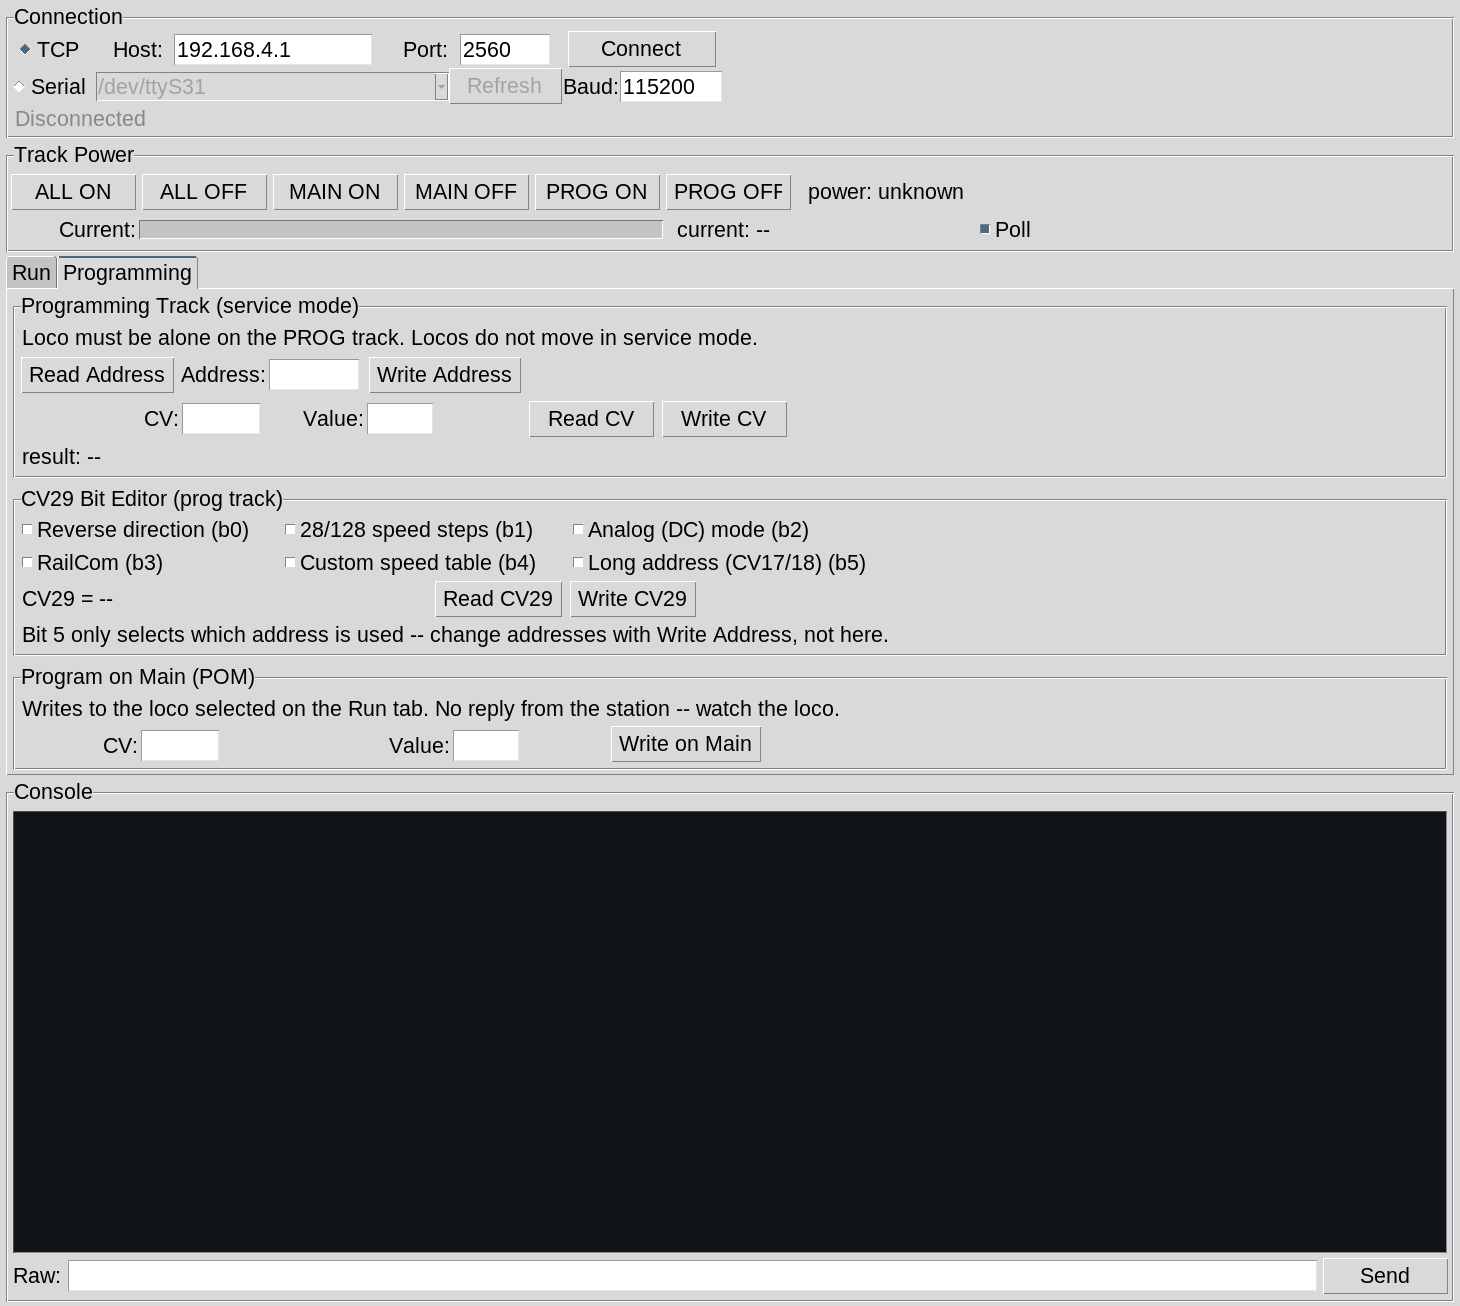
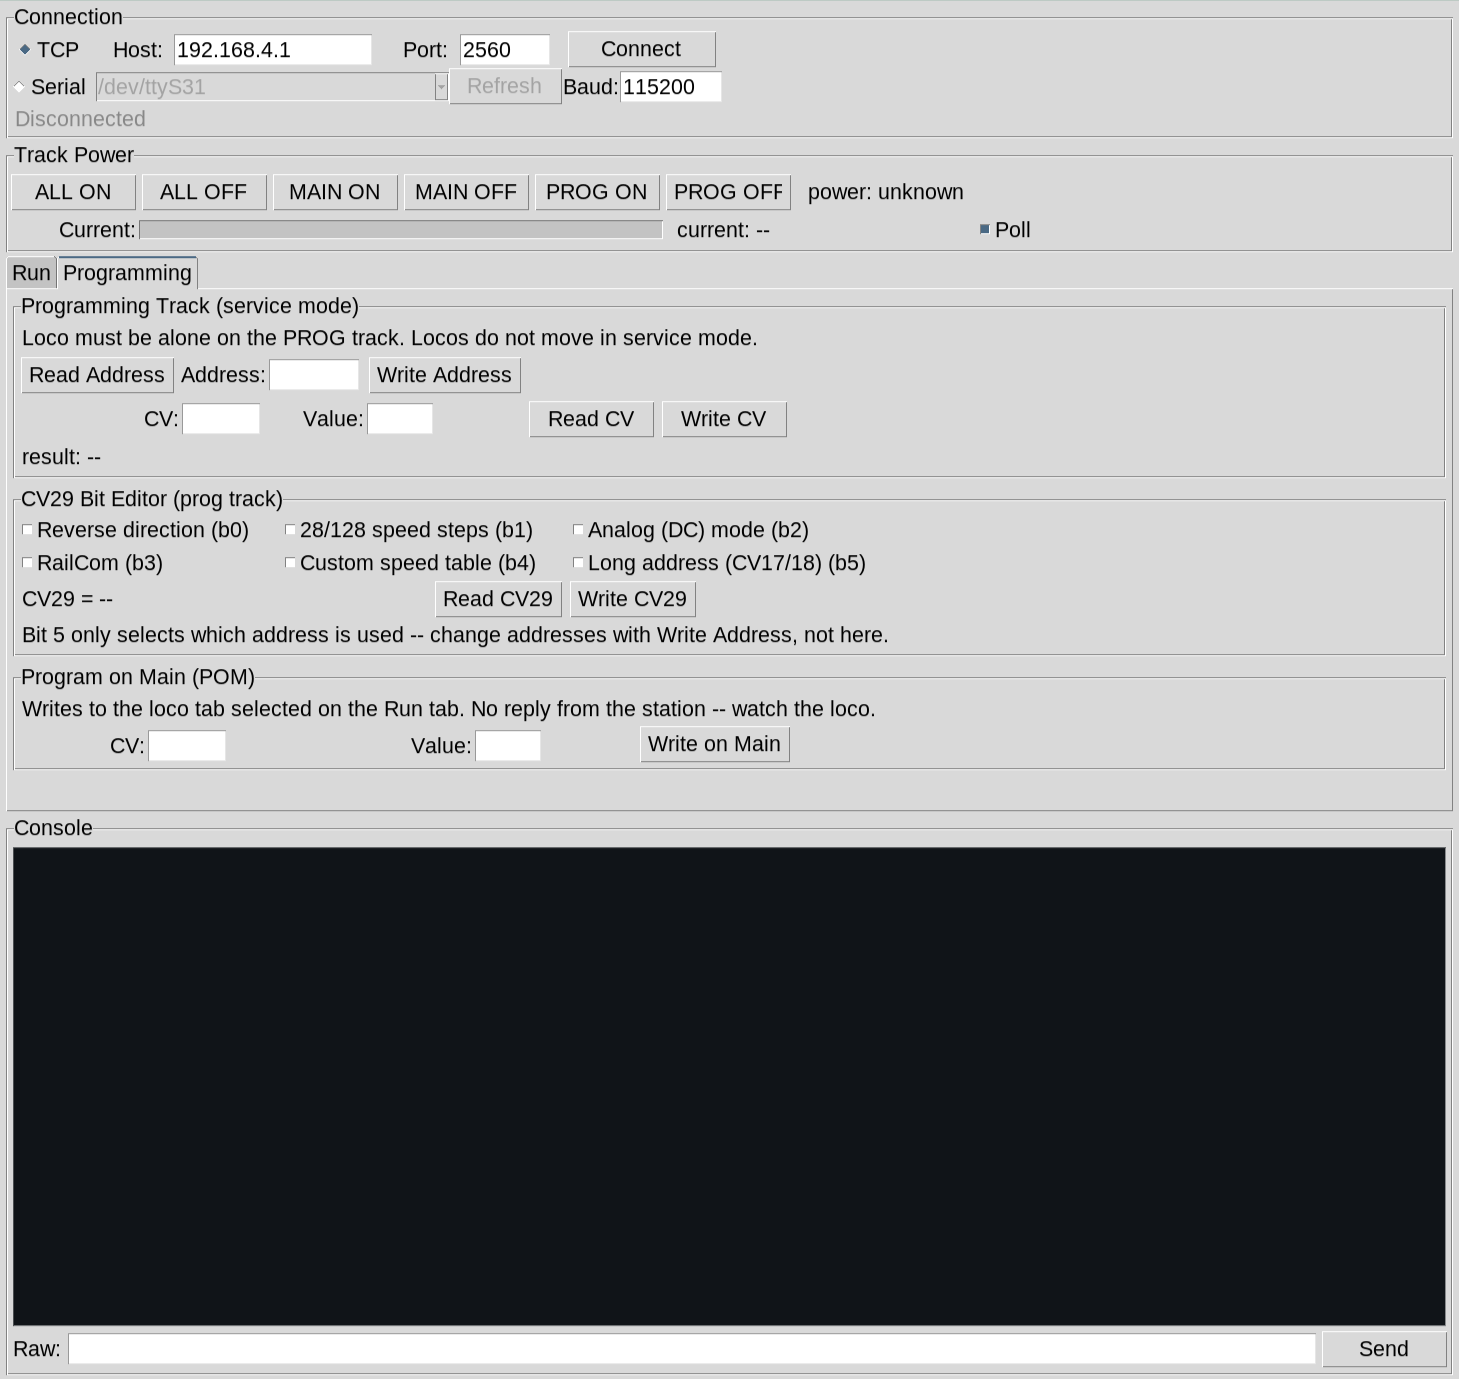
README: new screenshots showing loco tabs and the Setup window
Retake the Run and Programming screenshots with the per-loco tab bar,
add a Setup window screenshot, and describe adding, naming and
configuring loco tabs.

Claude-Session: https://claude.ai/code/session_01Xp8DYXM8aJhJr2Njq23CY2

Changed region(s): [[0.0, 0.0, 1.0, 0.6432], [0.0, 0.9495, 0.987, 1.0]]

diff --git a/README.md b/README.md
@@ -13,16 +13,20 @@ WiThrottle bridge, no subscriptions. One Python file, stdlib only
 (pyserial is optional, for the serial connection), running entirely on your
 own network.
 
-![Run tab — throttle, direction, functions](docs/screenshot-run.png)
+![Run tab — one tab per locomotive, throttle, direction, labelled functions](docs/screenshot-run.png)
 
 ## What it does
 
 - **Drives locomotives**: 126-step speed slider, colour-coded
   forward/reverse toggle, per-loco STOP and layout-wide **E-STOP ALL**.
+- **One tab per locomotive.** Press **+** to add a loco, **Setup…** to name
+  its tab, choose which functions it shows and label each button ("F2
+  Whistle"). Every tab has its own address, throttle and function buttons,
+  and every loco's settings are remembered in `~/.config/dccex-throttle.json`.
 - **Function keys F0–F28**, each button individually switchable between
   *momentary* (on while held — horns, whistles) and *toggle* (one press
   flips the state — lights, sound enable). Right-click a button to flip its
-  mode; the choice is remembered in `~/.config/dccex-throttle.json`.
+  mode; the choice is remembered per loco.
 - **Programs decoders**: service-mode address and CV read/write on the PROG
   track, a CV29 bit editor, and Program-on-Main (POM) writes — with a
   built-in CV name lookup so results read as "CV 3 (Acceleration rate) = 24".
@@ -69,17 +73,17 @@ home network with EX-Installer, enter its IP instead.
 baud.
 
 On connect the app sends `<s>`, logs the station's version banner, and
-requests the current state of the selected loco so the controls match
+requests the current state of every loco tab so the controls match
 reality before you touch anything.
 
 ## Running trains
 
 1. Turn on track power — **ALL ON**, or **MAIN ON** if you want the
    programming track left off.
-2. Enter the loco address (3 is the factory default for most decoders,
-   and what the app starts on). Typing an address and pressing Enter, or
-   using the arrows, immediately syncs the controls to that loco's actual
-   state.
+2. Pick a loco tab, or press **+** to add one. Enter its address (3 is
+   the factory default for most decoders, and what the app starts on).
+   Typing an address and pressing Enter, or using the arrows, immediately
+   syncs that tab's controls to the loco's actual state.
 3. Drag the slider for speed, click the **FORWARD/REVERSE** button to
    change direction (green = forward, orange = reverse).
 4. Click function buttons for lights and sounds. Underlined buttons are in
@@ -91,6 +95,19 @@ reality before you touch anything.
    loco on the layout.
 
 Closing the window drops track power.
+
+### Setting up a locomotive tab
+
+![Setup window — name, visible functions, button labels](docs/screenshot-setup.png)
+
+**Setup…** on a tab opens its setup window (it also opens by itself for a
+freshly added loco). Type a name and the tab is renamed as you type; leave
+it blank and the tab reads "Loco *address*". Tick the functions this
+decoder actually uses and give each a label — the tab then shows only those
+buttons, with the label as the button text. Unlabelled layouts flow ten
+buttons to a row; labelled ones flow six so the text has room. Hidden
+functions still track the decoder's state and are still covered by **All
+Functions Off**. **Remove This Loco** deletes the tab and its settings.
 
 ## Programming CVs
 
